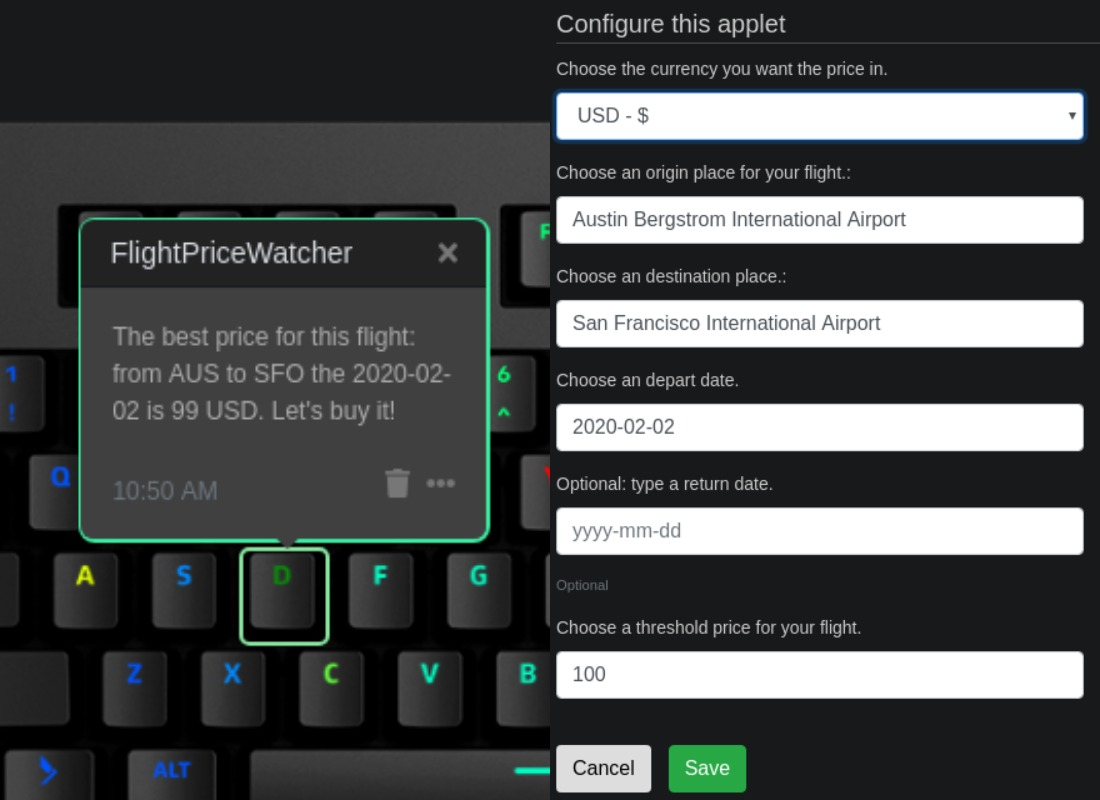
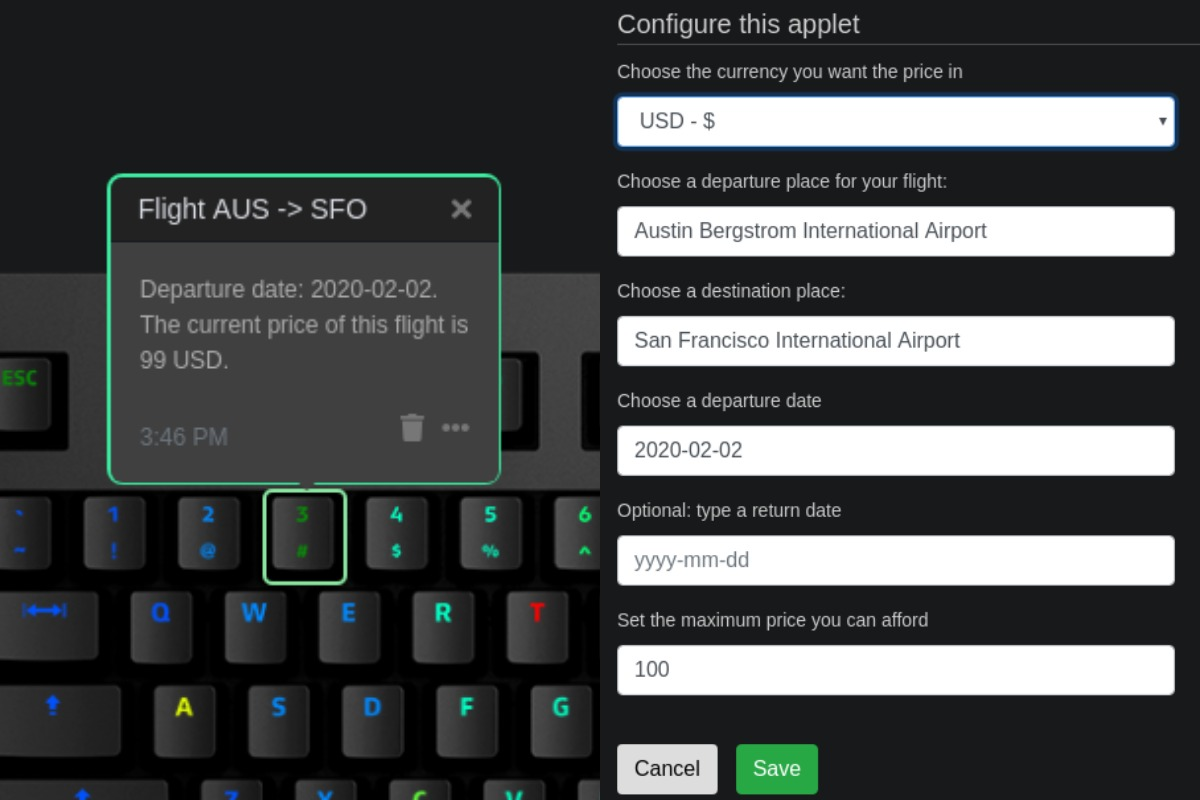
Udated readme

diff --git a/index.js b/index.js
@@ -72,8 +72,8 @@ class FlightPriceWatcher extends q.DesktopApp {
 	// Parameters needed to create the search method and collect the right datas: IATAs and names of
 	// the airports.
 	/**
-	* @param {*} airports
-	* @param {String} search 
+	* @param {*} airports // contains datas
+	* @param {String} search // method
 	*/
 	async getIATA(airports, search) {
 		if (search != null) {
@@ -97,10 +97,10 @@ class FlightPriceWatcher extends q.DesktopApp {
 		return option;
 	}	
 
-	// Store price obtained from first loaded.
+	// Stored price obtained from first load and every 24 hours.
 	// The price is updated every 24 hours.
 	// This price is compared with the price collected from the API every minute.
-	storeFirstPriceOfTheDay(price) {
+	storeFirstPriceOfTheDayIfNeeded(price) {
 		const firstPriceDate = this.store.get("firstPriceDate");
 		if(firstPriceDate == null || new Date().getTime() - firstPriceDate > 24*3600*1000) {
 			this.store.put("firstPrice", price);
@@ -117,11 +117,11 @@ class FlightPriceWatcher extends q.DesktopApp {
 	async run() {
 		// Compare the current price to the first price
 		return this.getPrice().then(new_price => {
-			this.storeFirstPriceOfTheDay(new_price);
+			this.storeFirstPriceOfTheDayIfNeeded(new_price);
 			const first_price = this.getFirstPriceOfTheDay();
 			logger.info(`The new price is ${new_price}`);
 			logger.info(`The first price is ${first_price}`);
-			logger.info(`The threshold is ${this.config.maxAffordablePrice}`);
+			logger.info(`The maxAffordablePrice is ${this.config.maxAffordablePrice}`);
 			let color;
 			let message;
 			// If there is no flight listed.
@@ -132,45 +132,37 @@ class FlightPriceWatcher extends q.DesktopApp {
 			else if (new_price <= this.config.maxAffordablePrice) {
 				if (first_price == null) {
 					color = '#FFFF00'; // yellow
-					message = `The best price for this flight: from ${this.config.departurePlace}
-					to ${this.config.destinationPlace} the ${this.config.departureDate} is 
-					${new_price} ${this.config.currency}.`;
+					message = `Departure date: ${this.config.departureDate}.
+					The current price of this flight is	${new_price} ${this.config.currency}.`;
 				} else if (new_price <= first_price) {
 					color = '#088A08'; // green
-					message = `The best price for this flight: from ${this.config.departurePlace}
-					to ${this.config.destinationPlace} the ${this.config.departureDate} is 
-					${new_price} ${this.config.currency}. Let's buy it!`;
+					message = `Departure date: ${this.config.departureDate}.
+					The current price of this flight is ${new_price} ${this.config.currency}.`;
 				} else {
 					color = '#FFFF00'; // yellow
-					message = `The best price for this flight: from ${this.config.departurePlace}
-					to ${this.config.destinationPlace} the ${this.config.departureDate}
-					was ${first_price} ${this.config.currency} 
-					and is now ${new_price} ${this.config.currency}`;
+					message = `Departure date: ${this.config.departureDate}.
+					The current price of this flight is ${new_price} ${this.config.currency}.`;
 				}
 			} else {
 				if (first_price == null) {
 					color = '#FF8000'; // orange
-					message = `The best price for this flight: from ${this.config.departurePlace}
-					to ${this.config.destinationPlace} the ${this.config.departureDate} is 
-					${new_price} ${this.config.currency}.`;
+					message = `Departure date: ${this.config.departureDate}.
+					The current price of this flight is ${new_price} ${this.config.currency}.`;
 				} else if (new_price <= first_price) {
 					color = '#FF8000'; // orange
-					message = `The best price for this flight: from ${this.config.departurePlace}
-					to ${this.config.destinationPlace} the ${this.config.departureDate} is 
-					${new_price} ${this.config.currency}. Let's buy it!`;
+					message = `Departure date: ${this.config.departureDate}. 
+					The current price of this flight is ${new_price} ${this.config.currency}.`;
 				} else {
 					color = '#DF0101'; // red
-					message = `The best price for this flight: from ${this.config.departurePlace}
-					to ${this.config.destinationPlace} the ${this.config.departureDate}
-					was ${first_price} ${this.config.currency} 
-					and is now ${new_price} ${this.config.currency}`;
+					message = `Departure date: ${this.config.departureDate}.
+					The current price of this flight is ${new_price} ${this.config.currency}.`;
 				}
 			}
 			const a = new q.Signal({
 				points: [
 					[new q.Point(color)]
 				],
-				name: 'FlightPriceWatcher',
+				name: `Flight ${this.config.departurePlace} -> ${this.config.destinationPlace}`,
 				message: message,
 				errors: 'Error signal'
 			});
@@ -179,7 +171,8 @@ class FlightPriceWatcher extends q.DesktopApp {
 	}
 
 	isDateFormatValid(date) {
-		var regEx = /^\d{4}-\d{2}-\d{2}$/;	
+		// var regEx = /^\d{4}-\d{2}-\d{2}$/;	
+		var regEx = /([12]\d{3}-(0[1-9]|1[0-2])-(0[1-9]|[12]\d|3[01]))/;
 		if(!date || date.match(regEx)) {
 			return true; //Valid format
 		} else {
@@ -187,7 +180,7 @@ class FlightPriceWatcher extends q.DesktopApp {
 		}
 	}
 
-	isThresholdFormatValid(price) {
+	ismaxAffordablePriceFormatValid(price) {
 		var regEx = /^[0-9]*$/;
 		if(!price || price.match(regEx)) {
 			return true; // Valid format
@@ -201,8 +194,8 @@ class FlightPriceWatcher extends q.DesktopApp {
 			throw new Error('Depart date format invalid');
 		} else if (!this.isDateFormatValid(this.config.returnDate)) {
 			throw new Error('Return date format invalid');
-		} else if (!this.isThresholdFormatValid(this.config.maxAffordablePrice)) {
-			throw new Error('Threshold format invalid');
+		} else if (!this.ismaxAffordablePriceFormatValid(this.config.maxAffordablePrice)) {
+			throw new Error('maxAffordablePrice format invalid');
 		}
 		// The value in the store is reset when the user changes the configuration
 		// of the applet, for example if he wants to change the departurePlace or whatever

diff --git a/test/test.js b/test/test.js
@@ -30,18 +30,18 @@ describe('FlightPriceWatcher', () => {
             // Check if the date format is correct
             assert.ok(app.isDateFormatValid('2020-02-02'));
             assert.equal(app.isDateFormatValid('2020-0202-02'), false);
-            // Check if the threshold price format is correct
-            assert.ok(app.isThresholdFormatValid('465465456'));
-            assert.equal(app.isThresholdFormatValid('4654df'), false);
+            // Check if the maxAffordablePrice price format is correct
+            assert.ok(app.ismaxAffordablePriceFormatValid('465465456'));
+            assert.equal(app.ismaxAffordablePriceFormatValid('4654df'), false);
         });
     });
     describe('Check the case of none in the storage', () => {
         // Check if the keyboard key is the right color when none is stored
         // Means getFirstPrice returns null
-        it('Can get price when none is stored when new_price<=threshold', function () {
+        it('Can get price when none is stored when new_price<=maxAffordablePrice', function () {
             const app = buildAppWithFakeResponse();
             app.config.maxAffordablePrice = 100;
-            assert.ok(app.storeFirstPriceOfTheDay(null));
+            assert.ok(app.storeFirstPriceOfTheDayIfNeeded(null));
             assert.equal(app.getFirstPriceOfTheDay(), null);
             return app.run().then((signal) => {
                 assert.ok(signal); 
@@ -51,10 +51,10 @@ describe('FlightPriceWatcher', () => {
                 assert.fail(error)
             });
         });
-        it('Can get price when none is stored when new_price>threshold', function () {
+        it('Can get price when none is stored when new_price>maxAffordablePrice', function () {
             const app = buildAppWithFakeResponse();
             app.config.maxAffordablePrice = 98;
-            assert.ok(app.storeFirstPriceOfTheDay(null));
+            assert.ok(app.storeFirstPriceOfTheDayIfNeeded(null));
             assert.equal(app.getFirstPriceOfTheDay(), null);
             return app.run().then((signal) => {
                 assert.ok(signal); 
@@ -67,13 +67,13 @@ describe('FlightPriceWatcher', () => {
     });
     describe('Check the color of the key when new_price <= first_price', () => {
         // Check if the keyboard key is the right color when the new price > the old price
-        it('Color of the key when new_price<=threshold', async function () {
+        it('Color of the key when new_price<=maxAffordablePrice', async function () {
             // This price has to be adapted
             let app = buildAppWithFakeResponse(95);
             app.config.maxAffordablePrice = 100;
             const price = 500; // first_price
             console.log('<<<<<set old price>>>>', price);
-            assert.ok(app.storeFirstPriceOfTheDay(price));
+            assert.ok(app.storeFirstPriceOfTheDayIfNeeded(price));
             assert.equal(app.getFirstPriceOfTheDay(), price);
             return app.run().then((signal) => {
                 assert.ok(signal); 
@@ -83,13 +83,13 @@ describe('FlightPriceWatcher', () => {
                 assert.fail(error)
             });
         });
-        it('Color of the key when new_price>threshold', async function () {
+        it('Color of the key when new_price>maxAffordablePrice', async function () {
             // This price has to be adapted
             let app = buildAppWithFakeResponse();
             app.config.maxAffordablePrice = 98;
             const price = 500; // first_price
             console.log('<<<<<set old price>>>>', price);
-            assert.ok(app.storeFirstPriceOfTheDay(price));
+            assert.ok(app.storeFirstPriceOfTheDayIfNeeded(price));
             assert.equal(app.getFirstPriceOfTheDay(), price);
             return app.run().then((signal) => {
                 assert.ok(signal); 
@@ -102,13 +102,13 @@ describe('FlightPriceWatcher', () => {
     });
     describe('Check the color of the key when new_price > first_price', () => {
         // Check if the keyboard key is the right color when the new price <= the old price
-        it('Color of the key when new_price<=threshold', async function () {
+        it('Color of the key when new_price<=maxAffordablePrice', async function () {
             // This price has to be adapted
             let app = buildAppWithFakeResponse();
             app.config.maxAffordablePrice = 100;
             const price = 20; // first_price
             console.log('<<<<<set old price>>>>', price);
-            assert.ok(app.storeFirstPriceOfTheDay(price));
+            assert.ok(app.storeFirstPriceOfTheDayIfNeeded(price));
             assert.equal(app.getFirstPriceOfTheDay(), price);
             return app.run().then((signal) => {
                 assert.ok(signal); 
@@ -118,13 +118,13 @@ describe('FlightPriceWatcher', () => {
                 assert.fail(error)
             });
         });
-        it('Color of the key when new_price>threshold', async function () {
+        it('Color of the key when new_price>maxAffordablePrice', async function () {
             // This price has to be adapted
             let app = buildAppWithFakeResponse();
             app.config.maxAffordablePrice = 98;
             const price = 20; // first_price
             console.log('<<<<<set old price>>>>', price);
-            assert.ok(app.storeFirstPriceOfTheDay(price));
+            assert.ok(app.storeFirstPriceOfTheDayIfNeeded(price));
             assert.equal(app.getFirstPriceOfTheDay(), price);
             return app.run().then((signal) => {
                 assert.ok(signal); 

diff --git a/README.md b/README.md
@@ -1,24 +1,25 @@
 # Q Applet: Flight Price Watcher
 
-This applet will help the user find the best flight prices.
+This applet displays the price trend of a selected flight.
 
 [GitHub repository](https://github.com/daskeyboard/daskeyboard-applet--fly-me)
 
 ## Example
 
-Displays a notification on Das Keyboard Q series according to the price of the flight.
-First, the user has to set a threshold for his flight. The threshold will allow the user to set an average price he
-doesn't want to exceed. In order to do it he has to go on the skyscanner website and check the average price of the
-selected flight. Then, he will be able to set it on the designated input.
-The selected keyboard key will be green or yellow if the price of the flight is under the selected average price and
-orange or red if not.
-When the user will load the applet, the first price collected by the API will be saved in the store during 24 hours and
-it will be compared to the prices collected every minute. Thereby the user will be able to follow the evolution of the
-price of his flight for a 24 hours period.
-Incase the price of the flight is under the selected average price: if the price collected every minute is under the
-price saved in the store the key will be green, otherwise it will be yellow.
-Incase the price of the flight is above the selected average price: if the price collected every minute is under the
-price saved in the store the key will be orange, otherwise it will be red.
+This applet will change the color of the key on the keyboard according to the maximum price the user can afford and
+the price trend:
+
+- <span style="color:green">Green</span>: The price is decreasing and is under the maximum price the user can afford.
+- <span style="color:yellow">Yellow</span>: The price is increasing and is under the maximum price the user can afford.
+- <span style="color:orange">Orange</span>: The price is decreasing and is above the maximum price the user can afford.
+- <span style="color:red">Red</span>: The price is increasing and is above the maximum price the user can afford.
+
+## Account set up
+
+An account at [Skyscanner Flight Search](https://rapidapi.com/skyscanner/api/skyscanner-flight-search) is required in
+order to get an API key.
+
+The user needs to make sure he uses the key labeled `X-RapidAPI-Key` and paste it into the Flight Price Watcher applet.
 
 ![Flight Price Watcher on a Das Keyboard Q](assets/image.png "Flight Price Watcher result")
 

diff --git a/README_ENDUSER.md b/README_ENDUSER.md
@@ -1,19 +1,20 @@
 # Flight Price Watcher
 
-This applet will help the user find the best flight prices.
-The user has to create an account on <https://rapidapi.com/skyscanner/api/skyscanner-flight-search> in order to get his
-API key.
-The user will have to get the required API key which name is "X-RapidAPI-Key" and paste it in the designated input.
-Then the user will have to check the average price of his selected flight on the real skyscanner website cause he has
-to set this value in a designated input. This average price is the threshold value he doesn't want to exceed and it will
-help him find the best deal.
-The selected keyboard key will be green or yellow if the price of the flight is under the selected average price and
-orange or red if not.
-Incase the price of the flight is under the selected average price: the key will be green if the price is decreasing (so
-it is probably the best moment to buy it), otherwise it will be yellow. However, it is still correct cause the price is
-staying under the selected average price.
-Incase the price of the flight is above the selected average price: the key will be orange if the price is decreasing,
-otherwise it will be red. When the keyboard key is red, you have to worry cause it means the price of your flight is
-going up and will probably keep being expensive.
+This applet displays the price trend of a selected flight.
+
+This applet will change the color of the key on the keyboard according to the maximum price the user can afford and
+the price trend:
+
+- <span style="color:green">Green</span>: The price is decreasing and is under the maximum price the user can afford.
+- <span style="color:yellow">Yellow</span>: The price is increasing and is under the maximum price the user can afford.
+- <span style="color:orange">Orange</span>: The price is decreasing and is above the maximum price the user can afford.
+- <span style="color:red">Red</span>: The price is increasing and is above the maximum price the user can afford.
+
+## Account set up
+
+An account at [Skyscanner Flight Search](https://rapidapi.com/skyscanner/api/skyscanner-flight-search) is required in
+order to get an API key.
+
+The user needs to make sure he uses the key labeled `X-RapidAPI-Key` and paste it into the Flight Price Watcher applet.
 
 ![Flight Price Watcher on a Das Keyboard Q](assets/image.png "Flight Price Watcher config and result")
